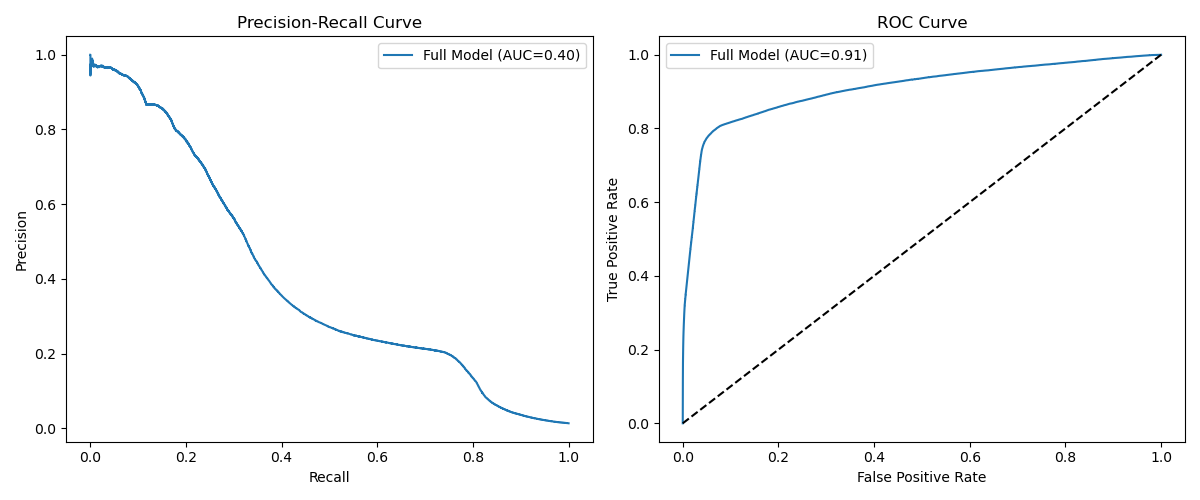
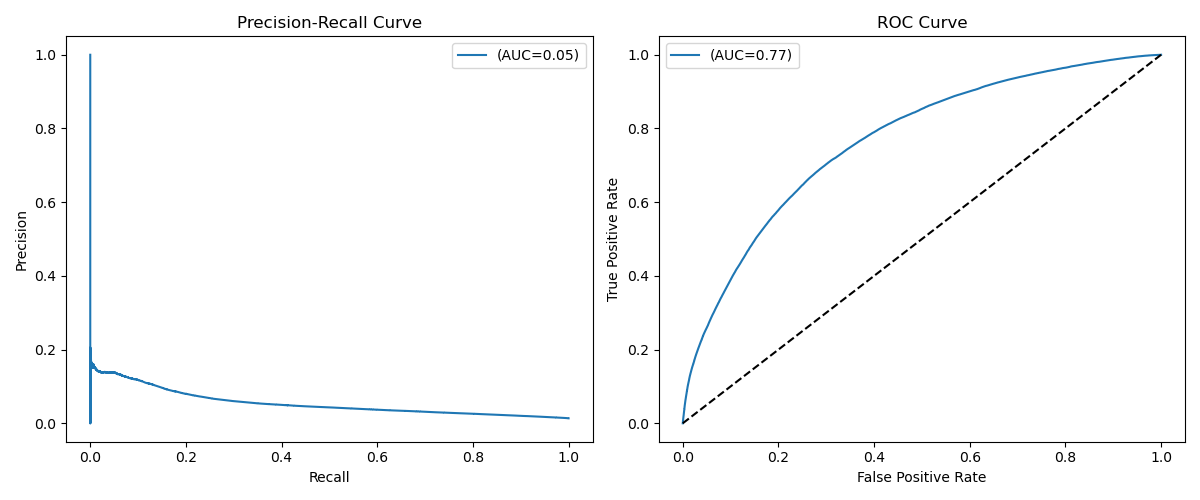
final final final

diff --git a/cross_validate.py b/cross_validate.py
@@ -11,6 +11,7 @@ def run_cv(tf_id='EP300', order=5, features_to_use=None):
     train_chrs = [1, 2, 4, 5, 6, 8, 9, 11, 12, 13, 14, 15, 16, 7, 18, 19, 20, 21, 22]
     
     log_odds_col = f'log_odds{tf_id}' 
+
     if features_to_use is None:
         if tf_id == 'EP300':
             features_to_use = ['ATAC', log_odds_col, 'FIMO_GATA3', 'FIMO_FOXA1', 'FIMO_CTCF', 'FIMO_REST', 'PhastCons']
@@ -33,11 +34,13 @@ def run_cv(tf_id='EP300', order=5, features_to_use=None):
         val_df = hf.build_feature_matrix(cv_val, tf_id, order)
 
         X_train = train_df[features_to_use].copy()
-        X_train['ATAC'] = X_train['ATAC'].map({'B': 1, 'U': 0})
+        if 'ATAC' in X_train.columns:
+            X_train['ATAC'] = X_train['ATAC'].map({'B': 1, 'U': 0})
         y_train = train_df[tf_id].map({'B': 1, 'U': 0})
 
         X_val = val_df[features_to_use].copy()
-        X_val['ATAC'] = X_val['ATAC'].map({'B': 1, 'U': 0})
+        if 'ATAC' in X_val.columns:
+            X_val['ATAC'] = X_val['ATAC'].map({'B': 1, 'U': 0})
         y_val = val_df[tf_id].map({'B': 1, 'U': 0})
 
         model = RandomForestClassifier(n_estimators=100, max_depth=12, n_jobs=-1, class_weight='balanced', random_state=42)
@@ -60,14 +63,14 @@ def run_cv(tf_id='EP300', order=5, features_to_use=None):
     fig, (ax1, ax2) = plt.subplots(1, 2, figsize=(12, 5))
     
     precision, recall, _ = precision_recall_curve(all_y_true, all_probs)
-    ax1.plot(recall, precision, label=f'Full Model (AUC={np.mean(auprc_scores):.2f})')
+    ax1.plot(recall, precision, label=f'(AUC={np.mean(auprc_scores):.2f})')
     ax1.set_xlabel('Recall')
     ax1.set_ylabel('Precision')
     ax1.set_title('Precision-Recall Curve')
     ax1.legend()
 
     fpr, tpr, _ = roc_curve(all_y_true, all_probs)
-    ax2.plot(fpr, tpr, label=f'Full Model (AUC={np.mean(auroc_scores):.2f})')
+    ax2.plot(fpr, tpr, label=f'(AUC={np.mean(auroc_scores):.2f})')
     ax2.plot([0, 1], [0, 1], 'k--') # Diagonal chance line
     ax2.set_xlabel('False Positive Rate')
     ax2.set_ylabel('True Positive Rate')
@@ -79,4 +82,6 @@ def run_cv(tf_id='EP300', order=5, features_to_use=None):
     plt.show()
 
 if __name__ == "__main__":
-    run_cv(tf_id='EP300')
+    run_cv(tf_id='CTCF',features_to_use=['log_oddsCTCF'])
+    run_cv(tf_id='REST',features_to_use=['log_oddsREST'])
+    
